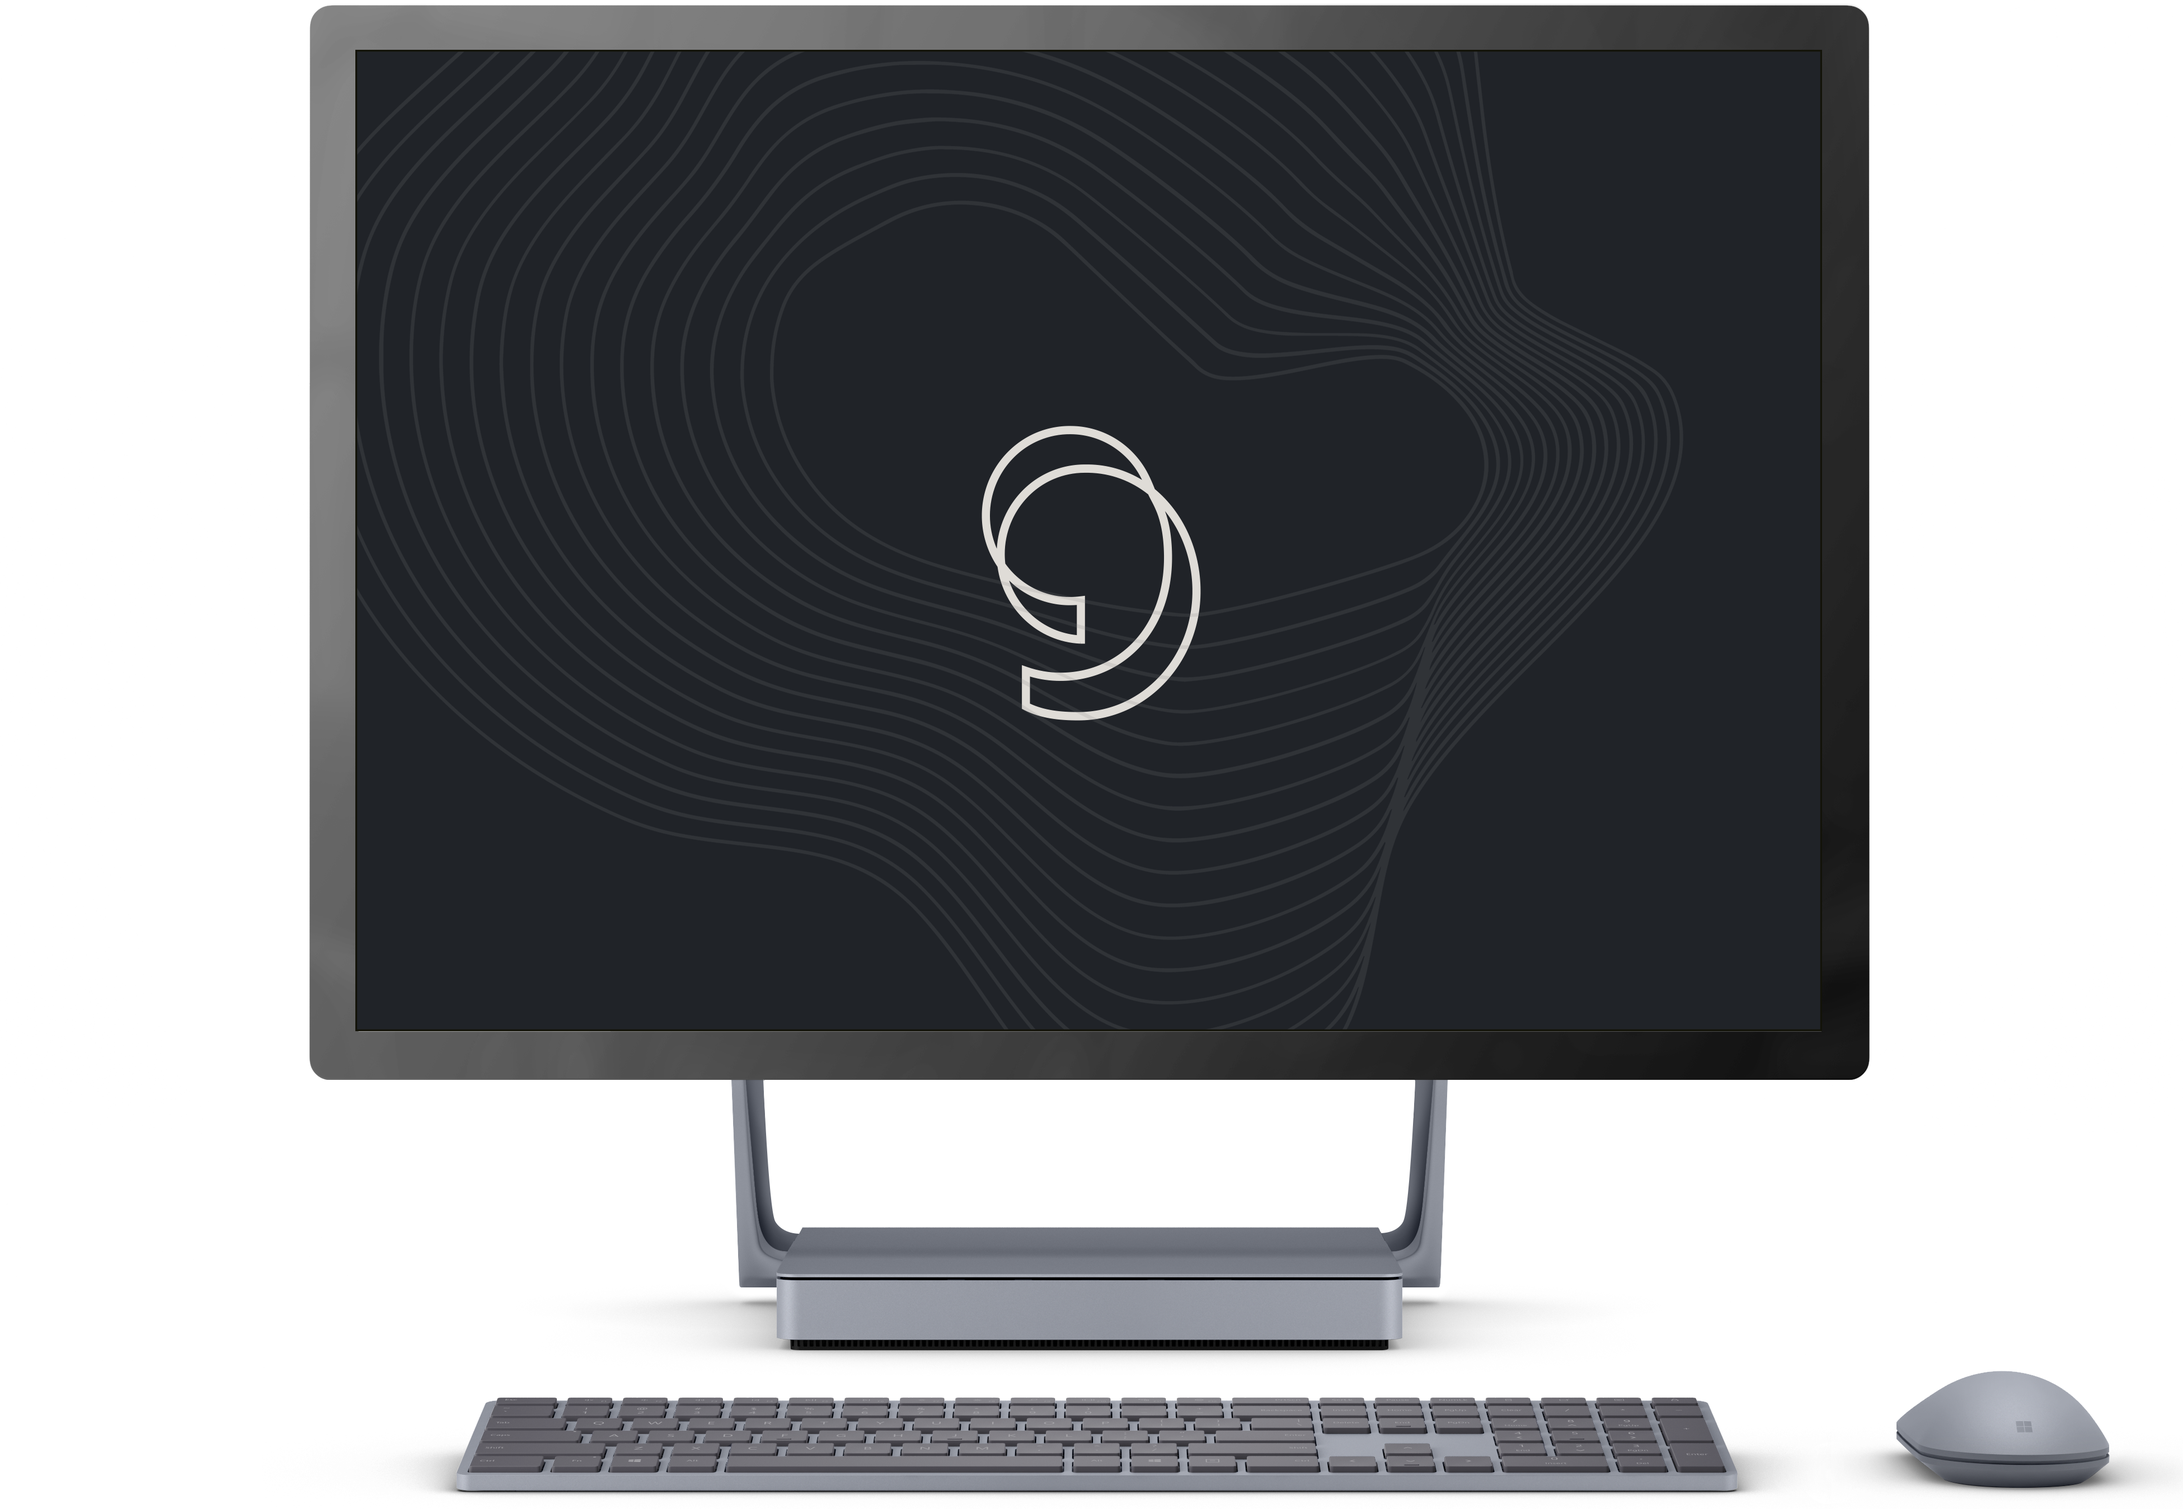
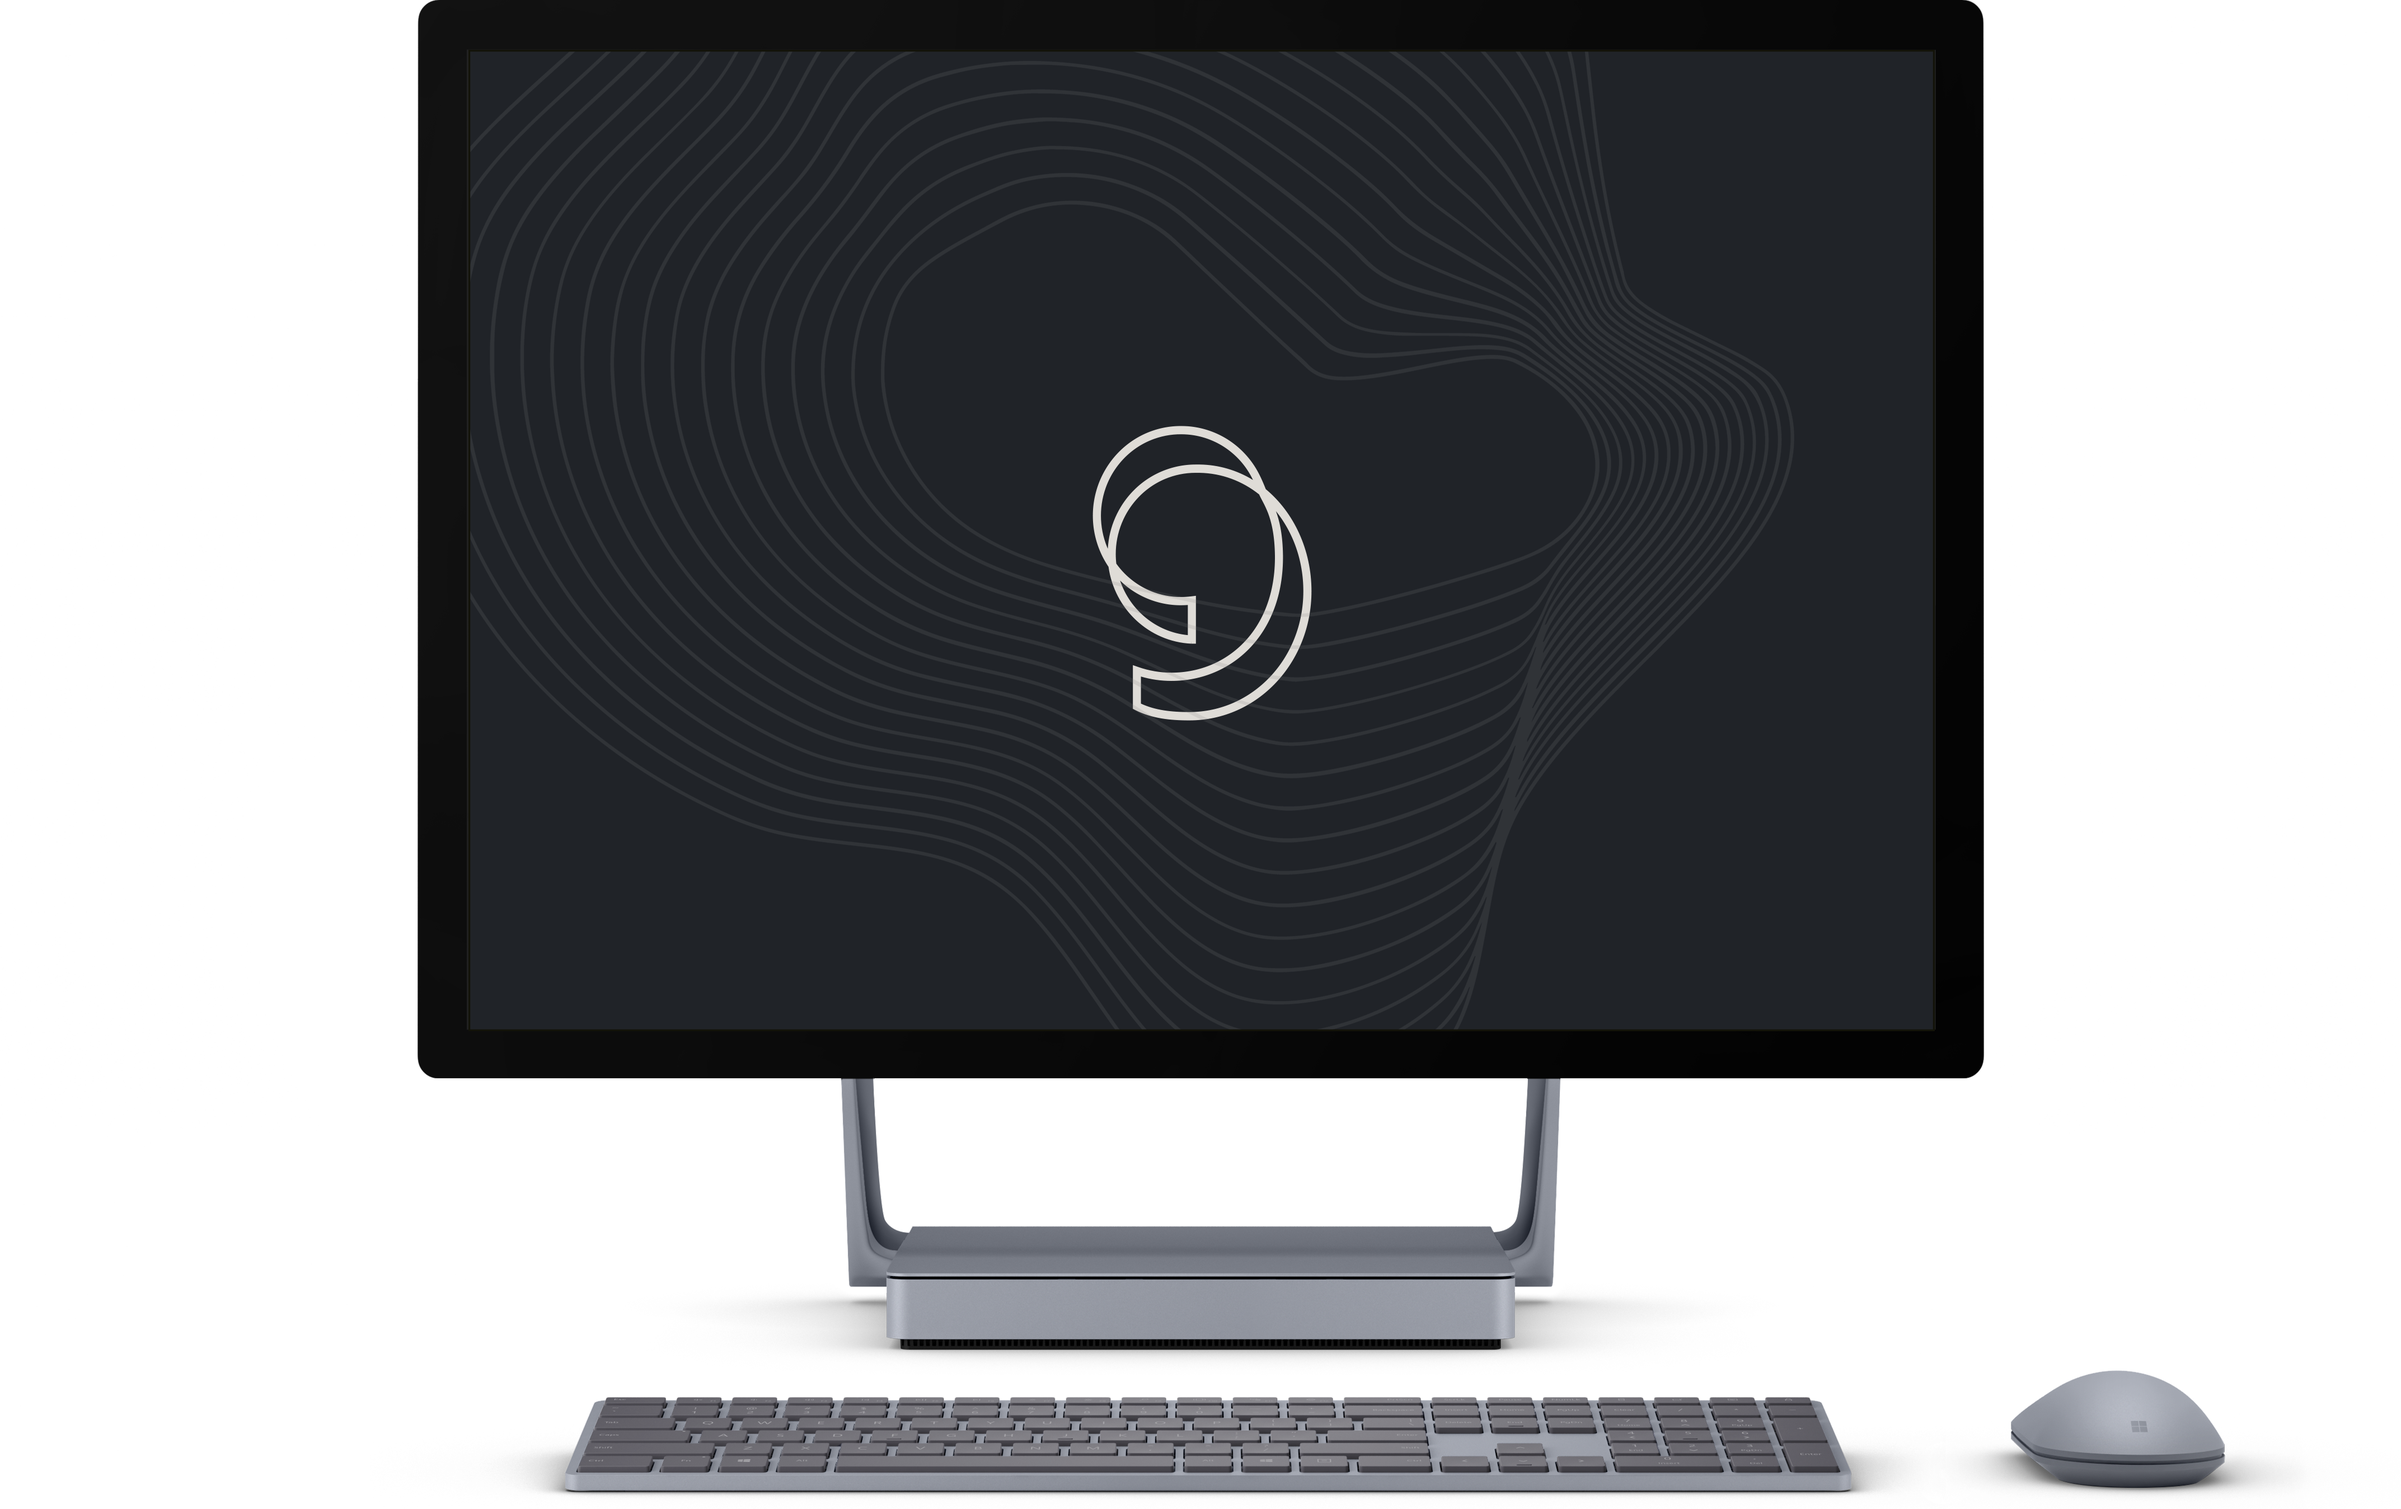
09190714

Changed region(s): [[0.1241, 0.0, 0.9926, 0.9967], [0.4342, 0.2803, 0.5583, 0.4672]]

diff --git a/css/introduce.css b/css/introduce.css
@@ -8,10 +8,12 @@
 }
 body{
   font-family: 'Roboto', sans-serif;
+  /* background:#202328; */
 }
 *{
     padding: 0;
     margin: 0;
+    
   }
 
   
@@ -27,6 +29,38 @@ body{
   
   .hero-hardware {
   background-repeat: no-repeat;
+    background-image: url("../img_/display5.png");
+    background-size: contain;
+    background-position: center;
+    position: relative;
+    top: 16%;
+    height: 60%;
+    /* margin-top: 15%; */
+    padding-top: 5%;
+    position: relative;
+    transform-origin: center 30%;
+    /*   will-change: transform; */
+    z-index: 5;
+    transition: background-image 0.3s ease-out;
+  }
+  .hidden{
+    background-repeat: no-repeat;
+    background-image: url("../img_/display3.png");
+    background-size: contain;
+    background-position: center;
+    position: relative;
+    top: 16%;
+    height: 60%;
+    /* margin-top: 15%; */
+    padding-top: 5%;
+    position: relative;
+    transform-origin: center 30%;
+    /*   will-change: transform; */
+    z-index: 5;
+    transition: background-image 0.3s ease-out;
+  }
+  .hidden1{
+    background-repeat: no-repeat;
     background-image: url("../img_/display4.png");
     background-size: contain;
     background-position: center;
@@ -39,6 +73,7 @@ body{
     transform-origin: center 30%;
     /*   will-change: transform; */
     z-index: 5;
+    transition: background-image 0.3s ease-out;
   }
 /*   
   img.placeholder {
@@ -55,7 +90,7 @@ body{
   }
    */
    .introduce_title{
-    margin: -3.2% 0% 18.5%;
+    margin: -8vh 0% 18.5%;
    }
    .introduce_title h1{
     font-family: 'Roboto', sans-serif;
@@ -74,7 +109,7 @@ body{
     display: flex;
     justify-content: center;
     align-items: center;
-    margin-bottom: 12.5%;
+    margin-bottom: 15%;
   }
   .introduce_box{
     /* border: 0.12rem solid var(--dark); */
@@ -358,24 +393,24 @@ body{
   }
   [data-trigger6]{
     opacity: 0;
-    transition: all 0.7s ease-out;
+    transition: all 0.8s ease-out;
     
   }
   [data-trigger6].visible{
     opacity: 1;
     transform: translateY(-50%);
-    transition: all 0.7s ease-out;
+    transition: all 0.8s ease-out;
   }
   .introduce_con {
     height: 450vh;
   }
   .introduce_con p{
-    font-size: 1.3rem;
-    font-weight: 500;
+    font-size: 2rem;
+    font-weight: 600;
   }
   .introduce_fixed p{
-    font-size: 1.3rem;
-    font-weight: 500;
+    font-size: 2rem;
+    font-weight: 600;
   }
   .animate {
     position: sticky;
@@ -397,7 +432,7 @@ body{
     position: sticky;
     top: 43vh;
     opacity: 0;
-    width: 20%;
+    width: 22%;
     left: 50%;
     right: 50%;
     transform: translateX(-50%) translateY(0%) !important;
@@ -411,4 +446,74 @@ body{
     
     transform: translateY(-10%) !important;
     height: fit-content;
+  }
+  .ser_boxtop{
+    display: flex;
+    justify-content: space-around;
+    flex-wrap:wrap;
+    margin: 0% 8% 8%;
+    
+  }
+  .ser_box{
+    border: 2px solid rgba(255, 255, 255, 0.05);
+    /* width: 48%; */
+    height: 30vh;
+    display: inline-block;
+    border-radius: 0.5vw;
+    background: var(--bgdark);
+    margin-top: 6%;
+    flex: 1 0 40%;
+    position: relative;
+    transition: all 0.08s ease-out;
+    /* box-shadow: 1px 3px 4px rgba(0, 0, 0, 0.35); */
+  }
+  .ser_boxinner{
+    margin-top: 5%;
+    margin-left: 6%;
+    font-size: 0.84rem;
+    color: rgb(240, 240, 240);
+  }
+  .ser_logoimg3{
+    position: absolute;
+    top: 50%;
+    left: 50%;
+    transform: translateX(-50%) translateY(-40%);
+    
+    /* margin: 20% 10% 10%; */
+  }
+  .serimg5{
+    width: 5rem;
+  }
+  .serimg5_w{
+    width: 10rem;
+  }
+  .serimg5_ww{
+    width: 15rem;
+  }
+  .ser_box img{
+    margin-top: 8%;
+  }
+  .ser_box:hover{
+    background: #353a3f;
+  }
+  .ser_box:nth-child(even){
+    margin-left: 12%;
+    
+  }
+  .introduce_content{
+    margin: 0% 10% 20%;
+  }
+  .introduce_content1{
+    margin: 0% 10%;
+  }
+  .ti1_ser{
+    font-weight: 400;
+      font-size: 2.4rem;
+      text-align: center;
+  }
+  .ti2_ser{
+    margin: 1rem 0% 4rem;
+      font-size: 0.9rem;
+      font-weight: 300;
+      text-align: center;
   }

diff --git a/introduce/introduce.html b/introduce/introduce.html
@@ -13,6 +13,7 @@
   <link rel="preconnect" href="https://fonts.googleapis.com">
   <link rel="preconnect" href="https://fonts.gstatic.com" crossorigin>
   <link href="https://fonts.googleapis.com/css2?family=Lato:wght@100&family=Poiret+One&family=Roboto:wght@100;200;300;400;500&display=swap" rel="stylesheet">
+  <script src="../js/preload1.js"></script>
   <script src="http://code.jquery.com/jquery-3.5.1.min.js"></script> 
   <script src="https://cdnjs.cloudflare.com/ajax/libs/skrollr/0.6.30/skrollr.min.js"></script>
   <script src="https://cdnjs.cloudflare.com/ajax/libs/gsap/3.11.1/gsap.min.js"></script>
@@ -28,8 +29,8 @@
 <body
 data-5300="background-color:rgb(240,240,240);"
 data-12000="background-color:rgb(240,240,240);"
-data-12300="background-color:rgb(32,35,40);"
-data-13200="background-color:rgb(32,35,40);"
+data-12200="background-color:rgb(32,35,40);"
+data-13250="background-color:rgb(32,35,40);"
 data-13450="background-color:rgb(240,240,240);">
   <header>
     <div class="header">
@@ -63,7 +64,7 @@ data-13450="background-color:rgb(240,240,240);">
   </header>
 
 <div class="outer">
-  <div class="hero-hardware">
+  <div class="hero-hardware hidden hidden1">
     <!-- <img class="placeholder" src="https://www.apple.com/v/macos/big-sur/a/images/overview/hero/hero_desktop__gd4s9ddcapu2_large_2x.jpg" /> -->
   </div>
 </div>
@@ -138,6 +139,54 @@ data-13450="background-color:rgb(240,240,240);">
       <div class="trigger trigger_5"></div>
       <img class="animate animate_6" src="../img_/comma_logofull_white.png" alt="">
       <div class="trigger trigger_6"></div>
+    </div>
+
+      <div class="introduce_content">
+        <div class="introduce_content1">
+        <h2 class="ti1_ser">
+            오늘의 comma로 미래의 쉼표를,
+        </h2>
+        <h2 class="ti2_ser">
+            모두를 위한, 새로운 미래를 위한, comma가 바꿀 재테크
+        </h2>
+
+        <div class="ser_boxtop">
+            
+            <div class="ser_box">
+                <div class="ser_boxinner">
+                    <i class="fa-solid fa-ban" style="color: rgb(192, 8, 8);"></i>&nbsp;&nbsp;로고를 회전하지 마세요.
+                </div>
+            </div>
+            <div class="ser_box">
+                <div class="ser_boxinner">
+                    <i class="fa-solid fa-ban" style="color: rgb(192, 8, 8);"></i>&nbsp;&nbsp;문구를 단독으로 사용하지 마세요.
+                </div>
+            </div>
+
+            <div class="ser_box">
+                <div class="ser_boxinner">
+                    <i class="fa-solid fa-ban" style="color: rgb(192, 8, 8);"></i>&nbsp;&nbsp;로고에 그라데이션을 임의로 넣지 마세요.
+                </div>
+            </div>
+            
+            <div class="ser_box">
+                <div class="ser_boxinner">
+                    <i class="fa-solid fa-ban" style="color: rgb(192, 8, 8);"></i>&nbsp;&nbsp;브랜드 컬러로 지정된 것 외의 색상을 사용하지 마세요.
+                </div>
+            </div>
+            <div class="ser_box">
+                <div class="ser_boxinner">
+                    <i class="fa-solid fa-ban" style="color: rgb(192, 8, 8);"></i>&nbsp;&nbsp;심볼에 다른 서체를 결합하여 사용하지 마세요.
+                </div>
+            </div>
+            <div class="ser_box">
+                <div class="ser_boxinner">
+                    <i class="fa-solid fa-ban" style="color: rgb(192, 8, 8);"></i>&nbsp;&nbsp;로고를 본문 안에서 사용하지 마세요.
+                </div>
+            </div>
+           
+        </div>
+      </div>
     </div>
 
   <div class="introduce_slide" data-trigger3>

diff --git a/js/introduce.js b/js/introduce.js
@@ -5,7 +5,7 @@ const { to, set, timeline, registerPlugin } = gsap;
 registerPlugin(ScrollTrigger);
 
 function initialiseElements() {
-  gsap.from(".hero-hardware", { transform: "scale(3)" });
+  gsap.from(".hero-hardware", { transform: "scale(3.04)" });
 
 }
 
@@ -199,7 +199,7 @@ const trigger3 = new ScrollTrigger.default({
                     // get passed the trigger, rect (DOMRect) and the scroll
                     // direction, a string of either top, left, right or
                     // bottom.
-                    return 0.4
+                    return 0.5
                 }
             },
             // Setting an offset of 0.2 on the viewport means the trigger
@@ -420,3 +420,31 @@ trigger6.add('[data-trigger6');
       .setTween(timeline2)
       .addTo(controller1);
   }
+
+  $(function() {
+    var outer = $(".hero-hardware");
+    $(window).scroll(function() {
+      var scroll = $(window).scrollTop();
+  
+      if (scroll > 400) {
+        outer.removeClass("hidden1");
+      } 
+      else {
+        outer.addClass("hidden1");
+      }
+    });
+  });
+  
+  $(function() {
+    var outer = $(".hero-hardware");
+    $(window).scroll(function() {
+      var scroll = $(window).scrollTop();
+  
+      if (scroll > 900) {
+        outer.removeClass("hidden");
+      } 
+      else {
+        outer.addClass("hidden");
+      }
+    });
+  });

diff --git a/main/main.html b/main/main.html
@@ -11,14 +11,11 @@
   <link rel="stylesheet" href="../css/scrollbar.css">
   <link rel="stylesheet" href="../css/footer.css">
   <link rel="preconnect" href="https://fonts.googleapis.com">
-<link rel="preconnect" href="https://fonts.gstatic.com" crossorigin>
-<link href="https://fonts.googleapis.com/css2?family=Lato:wght@100&family=Poiret+One&family=Roboto:wght@100;300;400;500&display=swap" rel="stylesheet">
-  
+  <link rel="preconnect" href="https://fonts.gstatic.com" crossorigin>
+  <link href="https://fonts.googleapis.com/css2?family=Lato:wght@100&family=Poiret+One&family=Roboto:wght@100;300;400;500&display=swap" rel="stylesheet">
   <script src="https://kit.fontawesome.com/308b309426.js" crossorigin="anonymous"></script>
-  
   <script src="../js/preload.js"></script>
   <script src="http://code.jquery.com/jquery-3.5.1.min.js"></script> 
-  
   <script src="../js/parallax.min.js"></script>
   <!-- <script src="https://cdn.jsdelivr.net/npm/ukiyojs@3.0.3/dist/ukiyo.min.js"></script> -->
   <!-- <link rel="stylesheet" href="https://cdnjs.cloudflare.com/ajax/libs/normalize/5.0.0/normalize.min.css"> -->

diff --git a/index.html b/index.html
@@ -11,7 +11,6 @@
     <link href="https://fonts.googleapis.com/css2?family=Lato:wght@100&family=Poiret+One&family=Roboto:wght@100;300;400;500&display=swap" rel="stylesheet">
     <link rel="preload" href="./css/main.css" as="style">
     <link rel="preload" href="./js/main.js" as="script">
-    
     <link rel="stylesheet" href="./css/logo.css" type="text/css">
     <script src="https://ajax.aspnetcdn.com/ajax/jQuery/jquery-3.6.0.min.js"></script>
     <script src="./js/intro.js"></script>

diff --git a/js/preload1.js b/js/preload1.js
@@ -1,0 +1,20 @@
+function preloading (imageArray) {
+
+	let n = imageArray.length;
+
+	for (let i = 0; i < n; i++) {
+
+		let img = new Image();
+
+		img.src = imageArray[i];
+
+	}
+
+};
+
+
+
+preloading([
+	"../img_/display3.png",
+	"../img_/display4.png"
+]);
